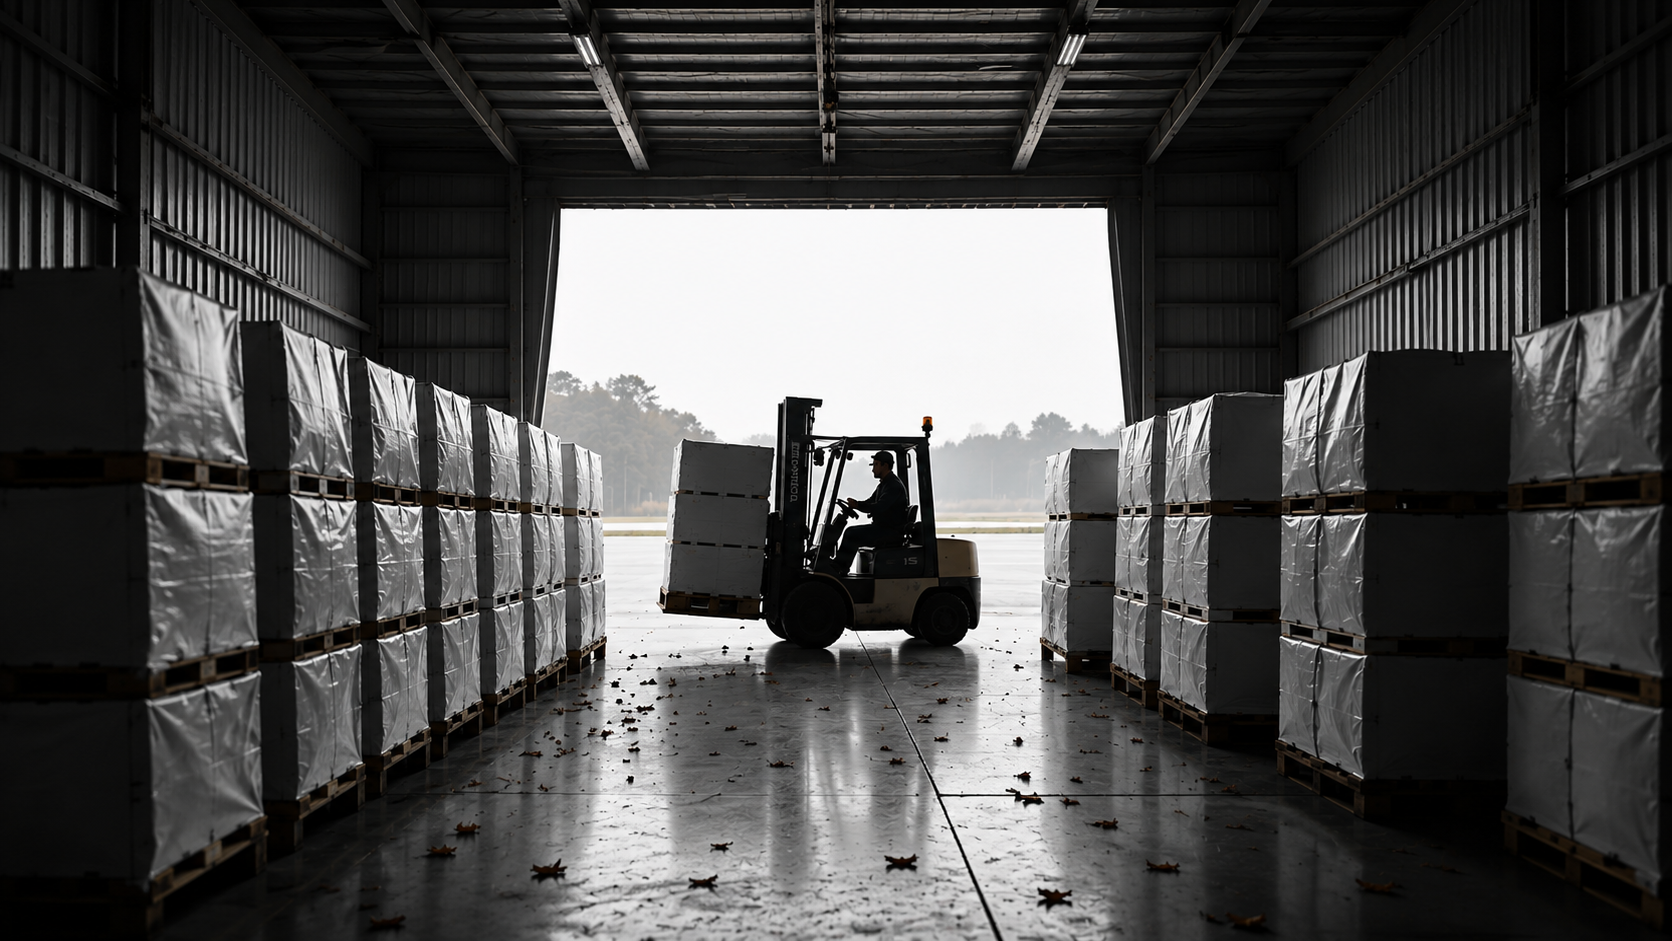
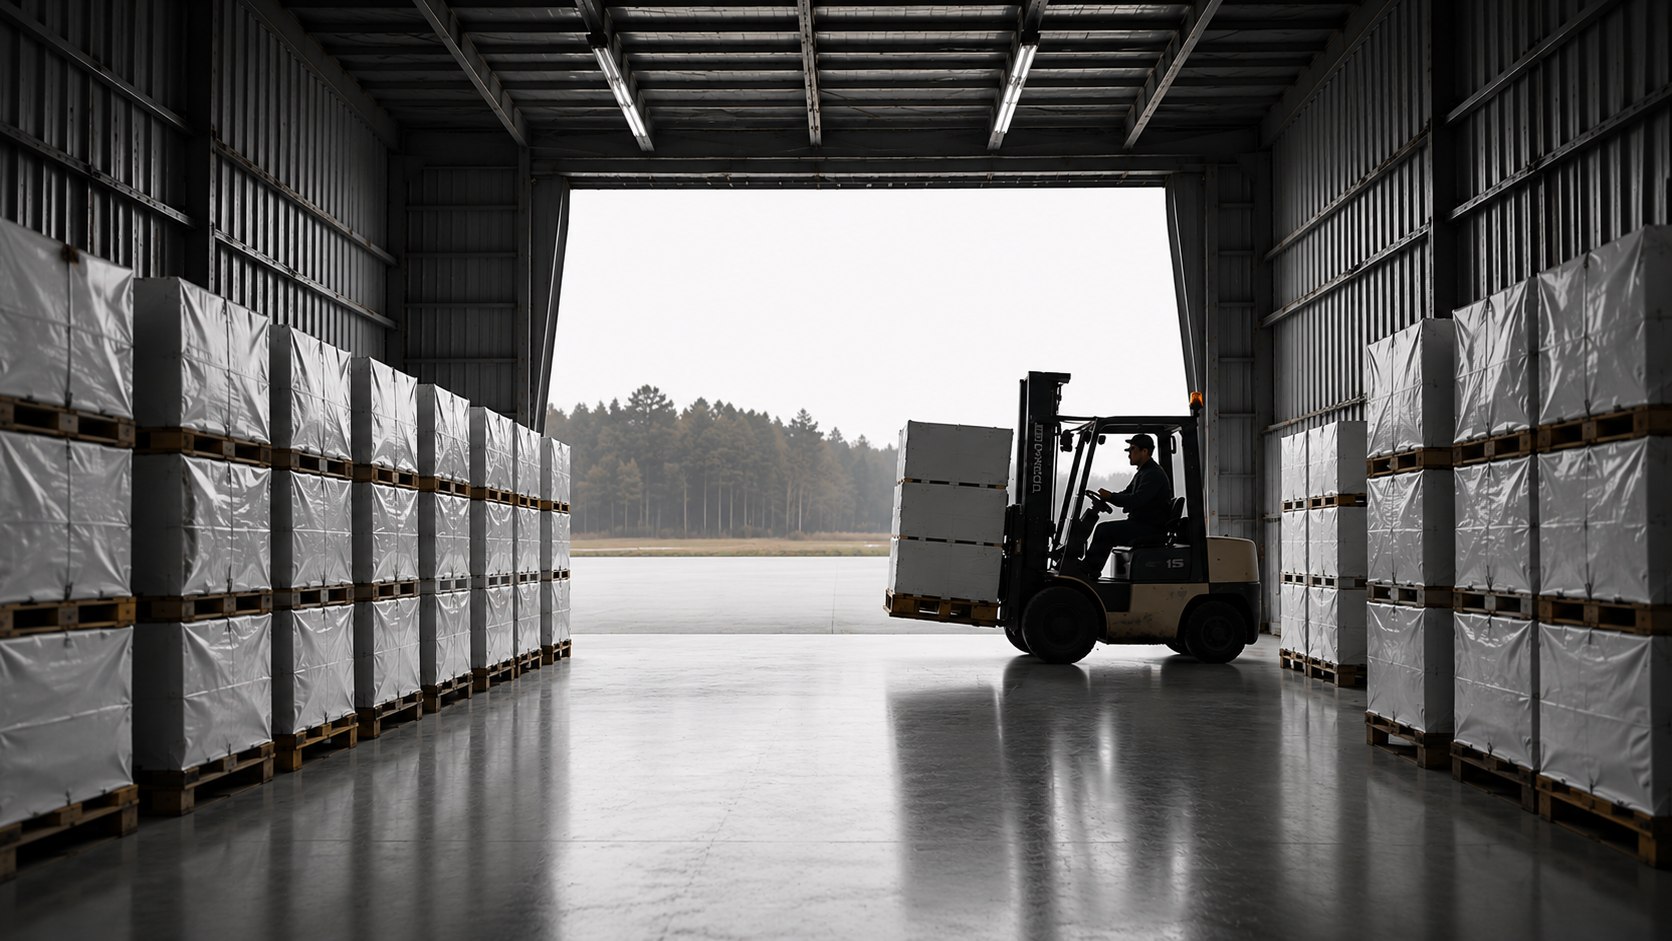
feat: hero redesenhado conforme referência do cliente
- Nova imagem de fundo (chão limpo)
- Overlay lateral: escuro na esquerda, transparente na direita
- LogoSymbol aumentado (h-32/h-44)
- "Locação e Venda" forçado na mesma linha (whitespace-nowrap)

diff --git a/src/routes/index.tsx b/src/routes/index.tsx
@@ -8,7 +8,6 @@ import { Header } from "@/components/Header";
 import { Footer } from "@/components/Footer";
 import { WhatsAppFloat } from "@/components/WhatsAppFloat";
 import { LogoSymbol } from "@/components/Logo";
-import heroSymbol from "@/assets/hero-symbol.jpeg";
 import { whatsappUrl, WHATSAPP_DISPLAY, PHONE_DISPLAY, EMAIL } from "@/lib/whatsapp";
 import heroImg from "@/assets/images/hero-bg.png";
 import electricImg from "@/assets/images/forklift-electric-toyota.png";
@@ -62,9 +61,9 @@ function Hero() {
         height={1280}
         className="absolute inset-0 h-full w-full object-cover"
       />
-      <div className="absolute inset-0 bg-gradient-to-br from-black/75 via-black/50 to-black/65" />
+      <div className="absolute inset-0 bg-gradient-to-r from-black/90 via-black/70 to-black/20" />
       <div className="relative mx-auto flex max-w-7xl flex-col items-start gap-6 px-4 py-28 md:px-8 md:py-40">
-        <img src={heroSymbol} alt="DJ Rent" className="h-24 w-auto md:h-32 self-start drop-shadow-[0_4px_16px_rgba(0,0,0,0.5)]" />
+        <LogoSymbol className="h-32 w-auto md:h-44 self-start" />
         <span className="inline-flex items-center gap-2 rounded-full border border-white/20 bg-white/10 px-4 py-1.5 text-xs font-medium uppercase tracking-wider text-white backdrop-blur">
           <Sparkles className="h-3.5 w-3.5" /> Mais de 10 anos de experiência
         </span>
